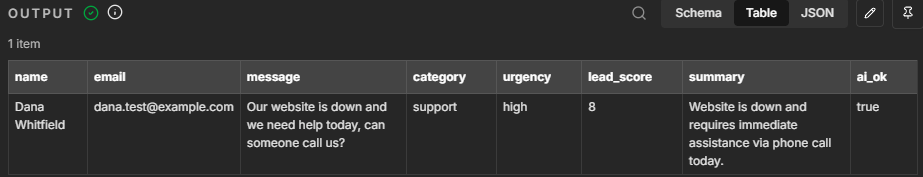
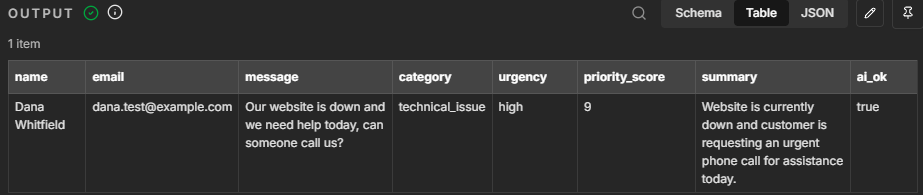
Update replay for ticket triage version

diff --git a/index.html b/index.html
@@ -83,10 +83,10 @@ footer{padding:40px 0 60px;border-top:1px solid var(--line);color:var(--mute);fo
 <div class="msg"><b>Dana Whitfield</b> · dana.test@example.com<br>"Our website is down and we need help today, can someone call us?"</div>
 <button class="btn p" id="play" style="border:0;cursor:pointer">▶ Run it</button>
 <div class="steps">
-<div class="step"><span class="dot">1</span><div><b>Webhook received the form</b><p>n8n catches the submission instantly.</p></div></div>
-<div class="step"><span class="dot">2</span><div><b>AI classified it</b><p><code>category: support · urgency: high · score: 8 · "Website is down and requires immediate assistance via phone call today."</code></p><img src="img/ai-result.png" alt="AI classification output table"></div></div>
+<div class="step"><span class="dot">1</span><div><b>Ticket received</b><p>n8n catches the submission instantly.</p></div></div>
+<div class="step"><span class="dot">2</span><div><b>AI classified it</b><p><code>category: technical_issue · urgency: high · priority_score: 9 · "Website is currently down and customer is requesting an urgent phone call for assistance today."</code></p><img src="img/ai-result.png" alt="AI classification output table"></div></div>
 <div class="step"><span class="dot">3</span><div><b>Saved to HubSpot</b><p>Contact created through the CRM API.</p><img src="img/hubspot.png" alt="HubSpot contact list showing Dana Whitfield"></div></div>
-<div class="step"><span class="dot">4</span><div><b>Urgent, so the team was alerted</b><p>Score 8 or higher triggers a Slack message.</p><img src="img/slack.png" alt="Slack alert in the leads channel"></div></div>
+<div class="step"><span class="dot">4</span><div><b>Urgent, so the team was alerted</b><p>A priority score of 8 or higher triggers a Slack message.</p><img src="img/slack.png" alt="Slack alert in the leads channel"></div></div>
 </div>
 </div>
 
